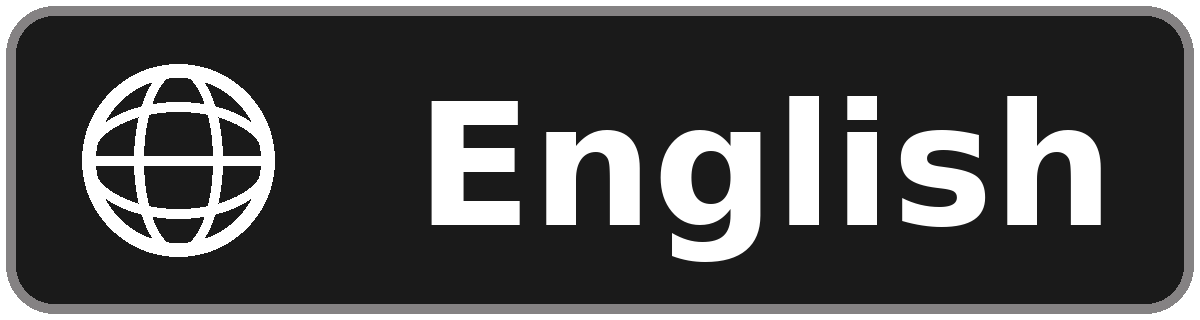
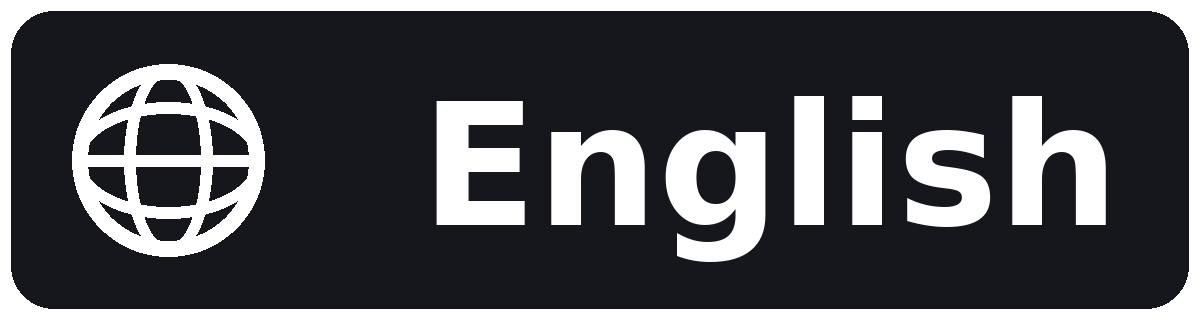
Binge Addon v1.0.7: Onyx badge restyle (nuviobadges.com research)
- Fill #1A1A1A -> #15171C, heavy grey border -> thin white-14% hairline,
  tagStyle 'filled' (Xperience Onyx formula, ideas/style only)
- Elite-style resolution hierarchy by tint: 1080p solid, 720p frosted
  white-10%, 480p faintest white-3% (PNG fill variants)
- Icons refined: bolder strokes, wider text gutter (speaker arcs can
  never touch the text); language labels stay English words
- ONE pattern change: 9 language patterns gain native-script
  alternations (Obsidian recipe), e.g. Hindi हिन्दी|हिंदी — all other
  patterns byte-identical to v1.0.6, rule test 0 regressions
- Same 23 badges, same groups, same imageURLs, same route; no new badges

diff --git a/tests/test-badges.js b/tests/test-badges.js
@@ -1,9 +1,11 @@
-// Binge Addon v1.0.6 — badge-pack rule test.
-// v1.0.6: minimal pack — 23 badges (15 dropped: encoder + channels +
-// audio jargon). Patterns of kept badges UNCHANGED; every filter still
-// carries a real imageURL (addon-hosted PNG);
-// the assertion below checks that exact URL instead of the v1.0.4
-// text-only '' value. Patterns, groups and badge list unchanged.
+// Binge Addon v1.0.7 — badge-pack rule test.
+// v1.0.7: Onyx restyle (look only) — fill #15171C, hairline white-14%
+// border, tagStyle "filled"; resolution hierarchy is a PNG-fill variant
+// only (badges.json tagColor stays #FF15171C for all three). ONE pattern
+// change: the 9 non-English language patterns gain native-script
+// alternations (Obsidian recipe: English name + native script + 3-letter
+// code; English itself has no distinct native script, so it is unchanged).
+// Every other pattern is byte-identical to v1.0.6.
 // Loads app/lib/badges.json (or the LIVE pack when BADGES_URL is set),
 // applies every pattern to REAL live stream titles+descriptions
 // (title + description combined, as Nuvio does), first match per group
@@ -57,7 +59,9 @@ async function getJSON(url) {
     check(groupIds.has(f.groupId), `filter ${f.id} groupId ${f.groupId} exists`);
     check(typeof f.name === 'string' && f.name && typeof f.pattern === 'string' && f.pattern
       && f.imageURL === `${BASE}/badges/${f.id}.png` && f.isEnabled === true
-      && f.tagStyle === 'filled and bordered', `filter ${f.id} fields ok (addon-hosted image, enabled)`);
+      && f.tagStyle === 'filled' && f.tagColor === '#FF15171C'
+      && f.borderColor === '#24FFFFFF' && f.textColor === '#FFFFFF',
+      `filter ${f.id} fields ok (addon-hosted image, enabled, Onyx colors, tagStyle filled)`);
     if (/4k|2160/i.test(f.name) || /4k|2160/i.test(f.pattern)) no4k = false;
   }
   check(no4k, 'no 4K / 2160p badge anywhere in the pack');
@@ -108,6 +112,19 @@ async function getJSON(url) {
   check(matches('lang-telugu', 'Telugu'), "Telugu fires on 'Telugu'");
   check(matches('lang-english', 'Hindi + English'), "English fires on description words 'Hindi + English'");
   check(matches('lang-hindi', 'Hindi + English'), "Hindi fires on description words 'Hindi + English'");
+  // v1.0.7: native-script alternations (Devanagari titles etc.). Bare
+  // alternations, no \\b around non-Latin scripts (\\b is ASCII-only).
+  check(matches('lang-hindi', 'हिंदी फिल्म 1080p'), "Hindi fires on Devanagari 'हिंदी'");
+  check(matches('lang-hindi', 'हिन्दी डब'), "Hindi fires on Devanagari 'हिन्दी'");
+  check(matches('lang-tamil', 'தமிழ்'), "Tamil fires on native 'தமிழ்'");
+  check(matches('lang-telugu', 'తెలుగు'), "Telugu fires on native 'తెలుగు'");
+  check(matches('lang-malayalam', 'മലയാളം'), "Malayalam fires on native 'മലയാളം'");
+  check(matches('lang-kannada', 'ಕನ್ನಡ'), "Kannada fires on native 'ಕನ್ನಡ'");
+  check(matches('lang-bengali', 'বাংলা'), "Bengali fires on native 'বাংলা'");
+  check(matches('lang-marathi', 'मराठी'), "Marathi fires on native 'मराठी'");
+  check(matches('lang-gujarati', 'ગુજરાતી'), "Gujarati fires on native 'ગુજરાતી'");
+  check(matches('lang-punjabi', 'ਪੰਜਾਬੀ'), "Punjabi fires on native 'ਪੰਜਾਬੀ'");
+  check(!matches('lang-hindi', 'English'), "Hindi does NOT fire on plain 'English'");
   check(!('bit10' in byId) && !('ch-5-1' in byId) && !('hevc' in byId) && !('x265' in byId) && !('aac' in byId), '10-Bit / 5.1 / HEVC / x265 / AAC badges are gone (dropped in v1.0.6)');
   check(matches('web-dl', 'WEB-DL') && matches('webrip', 'WEBRip'), 'WEB-DL / WEBRip still fire');
 

diff --git a/app/index.js b/app/index.js
@@ -26,7 +26,7 @@ const { readConfig, writeConfig, effectiveCatalogs, normalizeConfig } = require(
 const STREAM_CAP = 40;
 const TMDB_IMG = 'https://image.tmdb.org/t/p';
 const ADDON_NAME = 'binge-addon';
-const VERSION = '1.0.6';
+const VERSION = '1.0.7';
 
 const builder = new addonBuilder(MANIFEST);
 
@@ -162,8 +162,10 @@ app.get('/manifest.json', async (req, res) => {
 });
 
 // --- Badge pack (v1.0.4): Nuvio/Fusion badges served as static JSON.
-// v1.0.6: minimal pack — 23 badges, icon + short text PNGs (see
-// scripts/render-badges-v106.py). Every filter carries a real imageURL.
+// v1.0.7: Onyx restyle — same 23 badges, fill #15171C, hairline
+// white-14% border, tagStyle "filled"; 720p/480p PNGs use frosted fills
+// (see scripts/render-badges-v107.py). Language patterns gained
+// native-script alternations; every other pattern is v1.0.6-identical.
 // /badges/:id.png route below (PNGs rendered in-app, served by us).
 // Nuvio snapshots the file on import, so later edits need a re-import.
 app.get('/badges.json', (req, res) => {

diff --git a/app/lib/manifest.js b/app/lib/manifest.js
@@ -62,7 +62,7 @@ function catalogs() {
 
 const MANIFEST = {
   id: 'com.bharatstreams',
-  version: '1.0.6',
+  version: '1.0.7',
   name: 'Binge Addon',
   description:
     'Free Hindi-first Indian catalogs and streams. Trending India + Worldwide, Fresh Digital Drops, Latest Indian Movies & Web Series, Releasing Next 30 Days, Big Announcements 2026–2027, Now in Theatres, South Blockbusters, Dark Crime, Underrated Gems, Sci-Fi & Time Travel, Thrillers, Action, Mini-Series, Visual Spectacles, Anime and All-Time Classics, with Hindi 1080p streams first. This product uses the TMDB API but is not endorsed or certified by TMDB.',

diff --git a/scripts/render-badges-v107.py b/scripts/render-badges-v107.py
@@ -1,0 +1,188 @@
+#!/usr/bin/env python3
+"""Binge Addon v1.0.7 — Onyx-style badge restyle (look only, same 23 badges).
+
+Restyle source: nuviobadges.com research (18 Nov 2026, ideas/style only —
+no copied assets, no hotlinking). Xperience Onyx: opaque near-black fill
+#15171C, white text, thin white-14% hairline border, tagStyle "filled".
+Elite-style resolution hierarchy by tint: 1080p solid #15171C, 720p
+frosted white-10% fill, 480p faintest white-3% fill (outline-only look).
+Icons refined vs v1.0.6: bolder strokes, icon zone narrowed to 48..288
+and text starts at x=340 so speaker arcs can never touch the text.
+Language labels stay English words (DejaVu Sans has no Devanagari
+coverage — native scripts live in badges.json PATTERNS only, not images).
+
+Regenerates every badge in app/lib/badges.json as a 1200x320 PNG.
+Also writes a contact sheet (tests/badge-contact-sheet-107.png) on a
+DARK background (so the frosted 720p/480p fills + white text are visible)
+for a visual check before shipping. Run: python3 scripts/render-badges-v107.py
+"""
+import json, math, os, sys
+from PIL import Image, ImageDraw, ImageFont
+
+ROOT = os.path.dirname(os.path.dirname(os.path.abspath(__file__)))
+OUT = os.path.join(ROOT, 'app', 'lib', 'badge-images')
+BOLD = '/usr/share/fonts/truetype/dejavu/DejaVuSans-Bold.ttf'
+W, H = 1200, 320
+# Onyx formula: near-black #15171C solid fill, white-14% hairline border.
+FILL = (21, 23, 28, 255)
+BORDER = (255, 255, 255, 36)
+BORDER_W = 5
+# Resolution hierarchy by tint (Elite-style): 720p frosted white-10%,
+# 480p faintest white-3% — translucent white over transparency, so on a
+# dark Nuvio background they recede behind the solid 1080p chip.
+FILL_720 = (255, 255, 255, 26)
+FILL_480 = (255, 255, 255, 8)
+FILL_OVERRIDES = {'res-720p': FILL_720, 'res-480p': FILL_480}
+WHITE = (255, 255, 255, 255)
+
+ICONS = {
+    'atmos': ('speaker', 'Dolby Atmos'), 'dd-plus': ('speaker', 'DD+'),
+    'hdr10plus': ('sun', 'HDR10+'), 'hdr10': ('sun', 'HDR10'),
+    'dolby-vision': ('sun', 'Dolby Vision'), 'hdr': ('sun', 'HDR'),
+    'bluray': ('disc', 'BluRay'), 'web-dl': ('globe', 'WEB-DL'),
+    'webrip': ('film', 'WEBRip'),
+    'remux': ('text', 'REMUX'), 'res-1080p': ('text', '1080p'),
+    'res-720p': ('text', '720p'), 'res-480p': ('text', '480p'),
+}
+LANG_LABEL = {
+    'lang-hindi': 'Hindi', 'lang-english': 'English', 'lang-tamil': 'Tamil',
+    'lang-telugu': 'Telugu', 'lang-malayalam': 'Malayalam',
+    'lang-kannada': 'Kannada', 'lang-bengali': 'Bengali',
+    'lang-marathi': 'Marathi', 'lang-gujarati': 'Gujarati',
+    'lang-punjabi': 'Punjabi',
+}
+
+
+def font(size):
+    return ImageFont.truetype(BOLD, size)
+
+
+def fit_font(draw, text, max_w, start=170):
+    size = start
+    while size > 40:
+        f = font(size)
+        if draw.textlength(text, font=f) <= max_w:
+            return f
+        size -= 6
+    return font(40)
+
+
+def draw_speaker(d, x0, y0, x1, y1):
+    # speaker box + cone + 2 sound arcs, white, line width 16.
+    # Arcs are centred on the cone tip and capped at r=56, so they end
+    # well inside the icon zone (x < 288) and can never touch the text
+    # (which starts at x=340) — the v1.0.6 glitch.
+    w = 16
+    cx = (x0 + x1) // 2
+    cy = (y0 + y1) // 2
+    # box
+    d.rectangle([x0 + 8, cy - 42, x0 + 62, cy + 42], fill=WHITE)
+    # cone
+    d.polygon([(x0 + 62, cy - 42), (x0 + 128, cy - 88), (x0 + 128, cy + 88),
+               (x0 + 62, cy + 42)], fill=WHITE)
+    # arcs centred on the cone tip, kept inside the icon zone (x < 288)
+    tip_x, tip_y = x0 + 140, cy
+    for r in (30, 56):
+        d.arc([tip_x - r, tip_y - r, tip_x + r, tip_y + r], -55, 55,
+              fill=WHITE, width=w)
+
+
+def draw_sun(d, x0, y0, x1, y1):
+    cx, cy = (x0 + x1) // 2, (y0 + y1) // 2
+    d.ellipse([cx - 50, cy - 50, cx + 50, cy + 50], fill=WHITE)
+    for k in range(8):
+        a = math.radians(k * 45)
+        xA, yA = cx + int(74 * math.cos(a)), cy + int(74 * math.sin(a))
+        xB, yB = cx + int(102 * math.cos(a)), cy + int(102 * math.sin(a))
+        d.line([xA, yA, xB, yB], fill=WHITE, width=18)
+
+
+def draw_disc(d, x0, y0, x1, y1):
+    cx, cy = (x0 + x1) // 2, (y0 + y1) // 2
+    d.ellipse([cx - 96, cy - 96, cx + 96, cy + 96], outline=WHITE, width=16)
+    d.ellipse([cx - 58, cy - 58, cx + 58, cy + 58], outline=WHITE, width=12)
+    d.ellipse([cx - 18, cy - 18, cx + 18, cy + 18], fill=WHITE)
+
+
+def draw_globe(d, x0, y0, x1, y1):
+    cx, cy = (x0 + x1) // 2, (y0 + y1) // 2
+    d.ellipse([cx - 96, cy - 96, cx + 96, cy + 96], outline=WHITE, width=16)
+    d.ellipse([cx - 44, cy - 96, cx + 44, cy + 96], outline=WHITE, width=12)
+    d.line([cx - 96, cy, cx + 96, cy], fill=WHITE, width=12)
+    d.arc([cx - 96, cy - 58, cx + 96, cy + 58], 200, 340, fill=WHITE, width=12)
+    d.arc([cx - 96, cy - 58, cx + 96, cy + 58], 20, 160, fill=WHITE, width=12)
+
+
+def draw_film(d, x0, y0, x1, y1):
+    # film frame: rounded rect outline + sprocket holes top/bottom
+    d.rounded_rectangle([x0 + 10, y0 + 34, x1 - 10, y1 - 34], radius=18,
+                        outline=WHITE, width=14)
+    for x in (x0 + 52, x0 + 106, x0 + 160):
+        d.rounded_rectangle([x, y0 + 52, x + 26, y0 + 78], radius=6, fill=WHITE)
+        d.rounded_rectangle([x, y1 - 78, x + 26, y1 - 52], radius=6, fill=WHITE)
+    # play triangle in the middle
+    cx, cy = (x0 + x1) // 2 + 14, (y0 + y1) // 2
+    d.polygon([(cx - 26, cy - 34), (cx - 26, cy + 34), (cx + 34, cy)], fill=WHITE)
+
+
+DRAW = {'speaker': draw_speaker, 'sun': draw_sun, 'disc': draw_disc,
+        'globe': draw_globe, 'film': draw_film}
+
+
+def render(badge_id, kind, label, fill=FILL):
+    img = Image.new('RGBA', (W, H), (0, 0, 0, 0))
+    d = ImageDraw.Draw(img)
+    d.rounded_rectangle([6, 6, W - 7, H - 7], radius=48, fill=fill,
+                        outline=BORDER, width=BORDER_W)
+    if kind == 'text':
+        f = fit_font(d, label, W - 160)
+        tw = d.textlength(label, font=f)
+        d.text(((W - tw) / 2, (H - f.size) / 2 - 8), label, font=f, fill=WHITE)
+    else:
+        DRAW[kind](d, 48, 48, 288, 272)
+        f = fit_font(d, label, W - 380)
+        tw = d.textlength(label, font=f)
+        d.text((340 + (W - 340 - tw) / 2, (H - f.size) / 2 - 8), label,
+               font=f, fill=WHITE)
+    return img
+
+
+def main():
+    pack = json.load(open(os.path.join(ROOT, 'app', 'lib', 'badges.json')))
+    os.makedirs(OUT, exist_ok=True)
+    # delete dropped PNGs first
+    wanted = {f['id'] for f in pack['filters']}
+    for n in os.listdir(OUT):
+        if n.endswith('.png') and n[:-4] not in wanted:
+            os.remove(os.path.join(OUT, n))
+            print('deleted', n)
+    rendered = []
+    for f in pack['filters']:
+        bid = f['id']
+        kind, label = ICONS.get(bid, ('globe', LANG_LABEL.get(bid, f['name'])))
+        img = render(bid, kind, label, fill=FILL_OVERRIDES.get(bid, FILL))
+        img.save(os.path.join(OUT, bid + '.png'))
+        rendered.append((bid, img))
+        print(f'{bid:16s} {kind:8s} {label}')
+    # contact sheet: 2 cols, scaled 0.5, DARK bg (Nuvio is dark — the
+    # frosted 720p / faintest 480p fills only read on dark, and white
+    # text would vanish on a white sheet)
+    cols, sc = 2, 0.5
+    rows = (len(rendered) + cols - 1) // cols
+    sw, sh = int(W * sc), int(H * sc)
+    sheet = Image.new('RGB', (cols * sw + 60, rows * (sh + 20) + 20), (16, 16, 20))
+    for i, (bid, img) in enumerate(rendered):
+        x = 20 + (i % cols) * (sw + 20)
+        y = 20 + (i // cols) * (sh + 20)
+        thumb = img.resize((sw, sh))
+        # paste WITH the alpha mask: the 720p/480p fills are translucent
+        # white, and a mask-less paste would flatten them to opaque white
+        sheet.paste(thumb, (x, y), thumb)
+    sheet_path = os.path.join(ROOT, 'tests', 'badge-contact-sheet-107.png')
+    sheet.save(sheet_path)
+    print('sheet:', sheet_path, sheet.size)
+    print('total badges:', len(rendered))
+
+
+if __name__ == '__main__':
+    main()

diff --git a/DEPLOY.md b/DEPLOY.md
@@ -1396,3 +1396,33 @@ Date: 18 Nov 2026. Built by Muse subagents on this VM (no external person/compan
   re-pastes the badges.json URL in Nuvio himself (Fusion ON) and sends a
   stream-list screenshot. That on-device look is the final verdict;
   nothing here claims the look until he confirms it.
+
+## v1.0.7 ONYX BADGE RESTYLE 18 Nov 2026 (basant: restyle the badge pack with the best of nuviobadges.com)
+- **Research (nuviobadges.com, verified live 18 Nov 2026 — ideas/style only, NO copied assets, NO hotlinking, licensing not verified for any pack):**
+  - **Xperience Onyx (41 badges, best dark premium reference):** opaque near-black fill `#15171C`, white text, hairline border white-14% (`#24FFFFFF`), `tagStyle "filled"`, white-glyph images, bold condensed all-caps text — looks like a native dark-UI chip. Prism sibling proves theme = image-folder swap + tagColor/tagStyle change.
+  - **Savant Stealth (49):** frosted fill white-10% alpha (`#1AFFFFFF`), quiet ghost-like premium.
+  - **Elite Badges:** resolution hierarchy by tint (strongest for top tier, dimmed for lower).
+  - **Kit Obsidian (261, best language coverage):** language patterns = English name + native script + 3-letter code (`hindi|हिन्दी|हिंदी|hin`); flag chips for languages.
+  - **FR Minimal (219, best regex craft):** Hindi audio pattern is Unicode-aware with lookaheads excluding subtitle contexts. Same dataset powers ~10 themes by image-folder swap only.
+  - **Minimalistic / nobnobz (43):** softest treatment, black-13% fill + white-18% border. Anti-pattern avoided: tiered REMUX 1/2/3 variants.
+  - Schema (all packs): top-level `{groups, filters}`; group `{id, name, color, borderColor, isExpanded}`; filter `{id, groupId, name, pattern, imageURL, tagColor, borderColor, textColor, tagStyle, isEnabled, type: "filter"}`; colors are 8-digit ARGB (`#AARRGGBB`).
+- **Applied to our pack (look only — same 23 badges, same groups, same imageURLs, same route):**
+  - **Onyx fill formula:** fill `#1A1A1A` → `#15171C`; heavy grey `#858283` border → thin white-14% hairline (PIL outline `(255,255,255,36)`, width 5, same rounded-rect radius); white bold text kept. `badges.json`: every filter + group now `tagColor/color #FF15171C`, `borderColor #24FFFFFF`, `textColor #FFFFFF`, `tagStyle "filled"` (was `"filled and bordered"`).
+  - **Resolution hierarchy by tint (Elite-style, PNG fill variants only):** 1080p solid `#15171C`; 720p frosted white-10% fill (`(255,255,255,26)` over transparency); 480p faintest white-3% fill (`(255,255,255,8)`, outline-only look). `badges.json` tagColor stays `#FF15171C` for all three — the hierarchy lives in the images.
+  - **Icons refined, same 5 types** (speaker, sun, disc, globe, film): bolder strokes (14→16/18), icon zone narrowed 56..300 → 48..288, text starts x=340 (was 330) — speaker arcs capped at r=56, gutter pixel-scan proves zero white pixels in 288..340 on atmos/dd-plus. Language labels stay English words — NO Devanagari glyphs in images (DejaVu Sans has no Devanagari coverage).
+  - **ONE pattern change (only allowed change):** 9 non-English language patterns gained native-script alternations (Obsidian recipe), bare alternations with NO `\b` around non-Latin scripts (`\b` is ASCII-only): Hindi `(?i)\bhindi\b|\bhin\b|हिन्दी|हिंदी`, Tamil `|தமிழ்`, Telugu `|తెలుగు`, Malayalam `|മലയാളം`, Kannada `|ಕನ್ನಡ`, Bengali `|বাংলা`, Marathi `|मराठी`, Gujarati `|ગુજરાતી`, Punjabi `|ਪੰਜਾਬੀ`. English unchanged (its native script IS Latin). Every other pattern byte-identical to v1.0.6 — verified by diff against the v1.0.6 backup.
+  - **NOT built (future options, not this version):** no new badges — no Cached/debrid badge, no combo pills, no subtitle badges.
+  - **Render script:** `scripts/render-badges-v107.py` is a copy of v106 (v106 kept intact). Contact sheet `tests/badge-contact-sheet-107.png` is on a DARK background now (frosted fills + white text only read on dark) and pastes with the alpha mask — the first render's mask-less paste flattened the translucent 720p/480p fills to opaque white boxes; caught on the visual check, fixed, re-rendered. All 23 visually checked: no clipping, all glyphs legible, hierarchy visible (1080p clearly strongest, 480p clearly dimmest). Fill pixels verified: 1080p `(21,23,28,255)`, 720p `(255,255,255,26)`, 480p `(255,255,255,8)`.
+  - Test updated to v1.0.7 semantics (`tests/test-badges.js`): asserts Onyx colors + `tagStyle "filled"`, plus 11 new native-script checks (both Hindi spellings, all 9 scripts) and a Hindi-does-NOT-fire-on-English guard.
+  - Version 1.0.6 → **1.0.7** in `app/index.js`, `app/lib/manifest.js`, `app/package.json`, `app/package-lock.json`. NOTE: a blind `sed` on the lockfile first bumped two dependency versions too (content-type, escape-string-regexp 1.0.6→1.0.7 against resolved 1.0.5 tarballs) — caught in the diff review, reverted; final lockfile diff is exactly the 2 top-level version lines. No dashboard/admin file touched (dashboard is v1.0.8, separate).
+- **Local test BEFORE deploy (all PASS):** `GET /badges.json` 200 (local server :7001), 5 groups, 23 filters, 0 empty imageURLs; all 23 PNGs 200 `image/png`, 7,331–19,490 B, valid PNG magic; `/badges/hevc.png` 404; `/manifest.json` 1.0.7, 27 catalogs; `/health` 1.0.7; `/admin` 200. Rule test `node tests/test-badges.js`: **ALL CHECKS PASS** (188 PASS, 0 FAIL, 119 real titles).
+- **Deploy v1.0.7:** `dpl_AXiqTwS9VoMo1z6BLmpi1Dmn2siX` → READY (REST token route, ~25 s; no env vars touched, no catalog rebuild — Blob rows persist). Production URL unchanged.
+- **Live verification (production URL, all PASS):**
+  - `GET /badges.json` 200, `application/json`, **5 groups, 23 filters**, 0 empty imageURLs; tagColor `#FF15171C`, borderColor `#24FFFFFF`, tagStyle `filled`, textColor `#FFFFFF` on all 23; Hindi pattern live shows `हिन्दी|हिंदी`.
+  - **ALL 23 image URLs fetched live: 200, `image/png`, 7,331–19,490 B, 338,185 B total, 0 failures.** Live PNG pixels re-checked after deploy: 1080p `(21,23,28,255)`, 720p `(255,255,255,26)`, 480p `(255,255,255,8)` — the NEW images are serving, not cached old ones.
+  - Rule test re-run against the LIVE `/badges.json` (`BADGES_URL=… node tests/test-badges.js`): **ALL CHECKS PASS — 199 PASS, 0 FAIL, 120 real titles**; badges seen: 1080p, 720p, BluRay, DD+, Dolby Atmos, English, Hindi, REMUX, WEB-DL, WEBRip. Zero regressions from the language-pattern change — no revert needed.
+  - Manifest 200: name **"Binge Addon"**, id `com.bharatstreams`, **version 1.0.7**, **27 catalogs**. Health 200 (`binge-addon`, 1.0.7).
+  - Trending Indian movie **20/20** (Ramayana: Rise of a Legend first), series **20/20** (Ali Baba Aur 40 Bhoot first).
+  - Meta Jailer 2 (`/meta/movie/tt33318732.json`) 200, full meta: genres Action/Comedy/Drama, director Nelson, releaseInfo 2026, runtime 165 min, cast 10, poster + description.
+  - `/admin` 200.
+- **Still open (parent):** the ONE thing unverifiable headlessly is how the restyled badges LOOK in Nuvio on-device — basant removes + re-pastes the badges.json URL in Nuvio himself (Fusion ON) and sends a stream-list screenshot. That on-device look is the final verdict; nothing here claims the look until he confirms it.

diff --git a/README.md b/README.md
@@ -27,21 +27,32 @@ In Stremio / Nuvio, add this manifest URL:
   poster, cast, director and runtime inside the addon.
 - **`/admin` dashboard v1** — enable / rename / reorder catalogs, stream
   source toggles, max-quality knob.
-- **Badge pack (v1.0.6 — MINIMAL)** — 23 icon + short-text badges, same dark
-  style, served by the addon itself, no artwork hotlinked:
+- **Badge pack (v1.0.7 — ONYX RESTYLE)** — 23 icon + short-text badges,
+  same dark style, served by the addon itself, no artwork hotlinked:
   **https://binge-addon-httpbasant2-9067s-projects.vercel.app/badges.json**
-  Kept (patterns unchanged): REMUX, BluRay, 1080p/720p/480p, HDR10+,
+  Kept (patterns unchanged except languages): REMUX, BluRay, 1080p/720p/480p, HDR10+,
   HDR10, Dolby Vision, HDR, WEB-DL, WEBRip, Dolby Atmos, DD+, and 10
   languages (Hindi, English, Tamil, Telugu, Malayalam, Kannada, Bengali,
   Marathi, Gujarati, Punjabi). Dropped (the jargon wall): the whole Encoder
   group (HEVC, x265, AVC, x264, 10-Bit), the whole Channels group (7.1,
   5.1, 2.0), and TrueHD, DTS-HD MA, DTS, DD, AAC, FLAC, Opus. A stream now
   shows at most 4 pills instead of 7–9. Groups: Quality, Resolution,
-  Visual, Audio, Language (WEB-DL/WEBRip moved into Quality). Icons are
-  simple drawn glyphs — speaker (audio), sun (HDR), disc (BluRay), globe
-  (WEB-DL + languages), film (WEBRip); REMUX + resolutions are plain bold
-  text. Rendered by `scripts/render-badges-v106.py`; contact sheet at
-  `tests/badge-contact-sheet-106.png`.
+  Visual, Audio, Language (WEB-DL/WEBRip moved into Quality). Style source:
+  nuviobadges.com research (ideas/style only — nothing copied or hotlinked):
+  Xperience Onyx formula — opaque near-black fill `#15171C`, white bold
+  text, thin white-14% hairline border, `tagStyle: "filled"`; Elite-style
+  resolution hierarchy by tint — 1080p solid `#15171C`, 720p frosted
+  white-10% fill, 480p faintest white-3% fill (outline-only look); icons
+  refined (bolder, wider text gutter so speaker arcs never touch the
+  text). Language patterns gained native-script alternations (Obsidian
+  recipe: English name + native script + 3-letter code, e.g. Hindi
+  `हिन्दी|हिंदी`) so Hindi titles written in Devanagari now match; image
+  labels stay English words (DejaVu Sans has no Devanagari coverage).
+  Icons are simple drawn glyphs — speaker (audio), sun (HDR), disc
+  (BluRay), globe (WEB-DL + languages), film (WEBRip); REMUX + resolutions
+  are plain bold text. Rendered by `scripts/render-badges-v107.py`
+  (v1.0.6 script kept intact); contact sheet at
+  `tests/badge-contact-sheet-107.png` (dark background, hierarchy visible).
   Nuvio steps: Profile → Layout → Streams → **Fusion badge URL** → paste the
   link above → Save. Nuvio snapshots the pack on import, so after a pack
   update re-paste the same link to refresh it.
